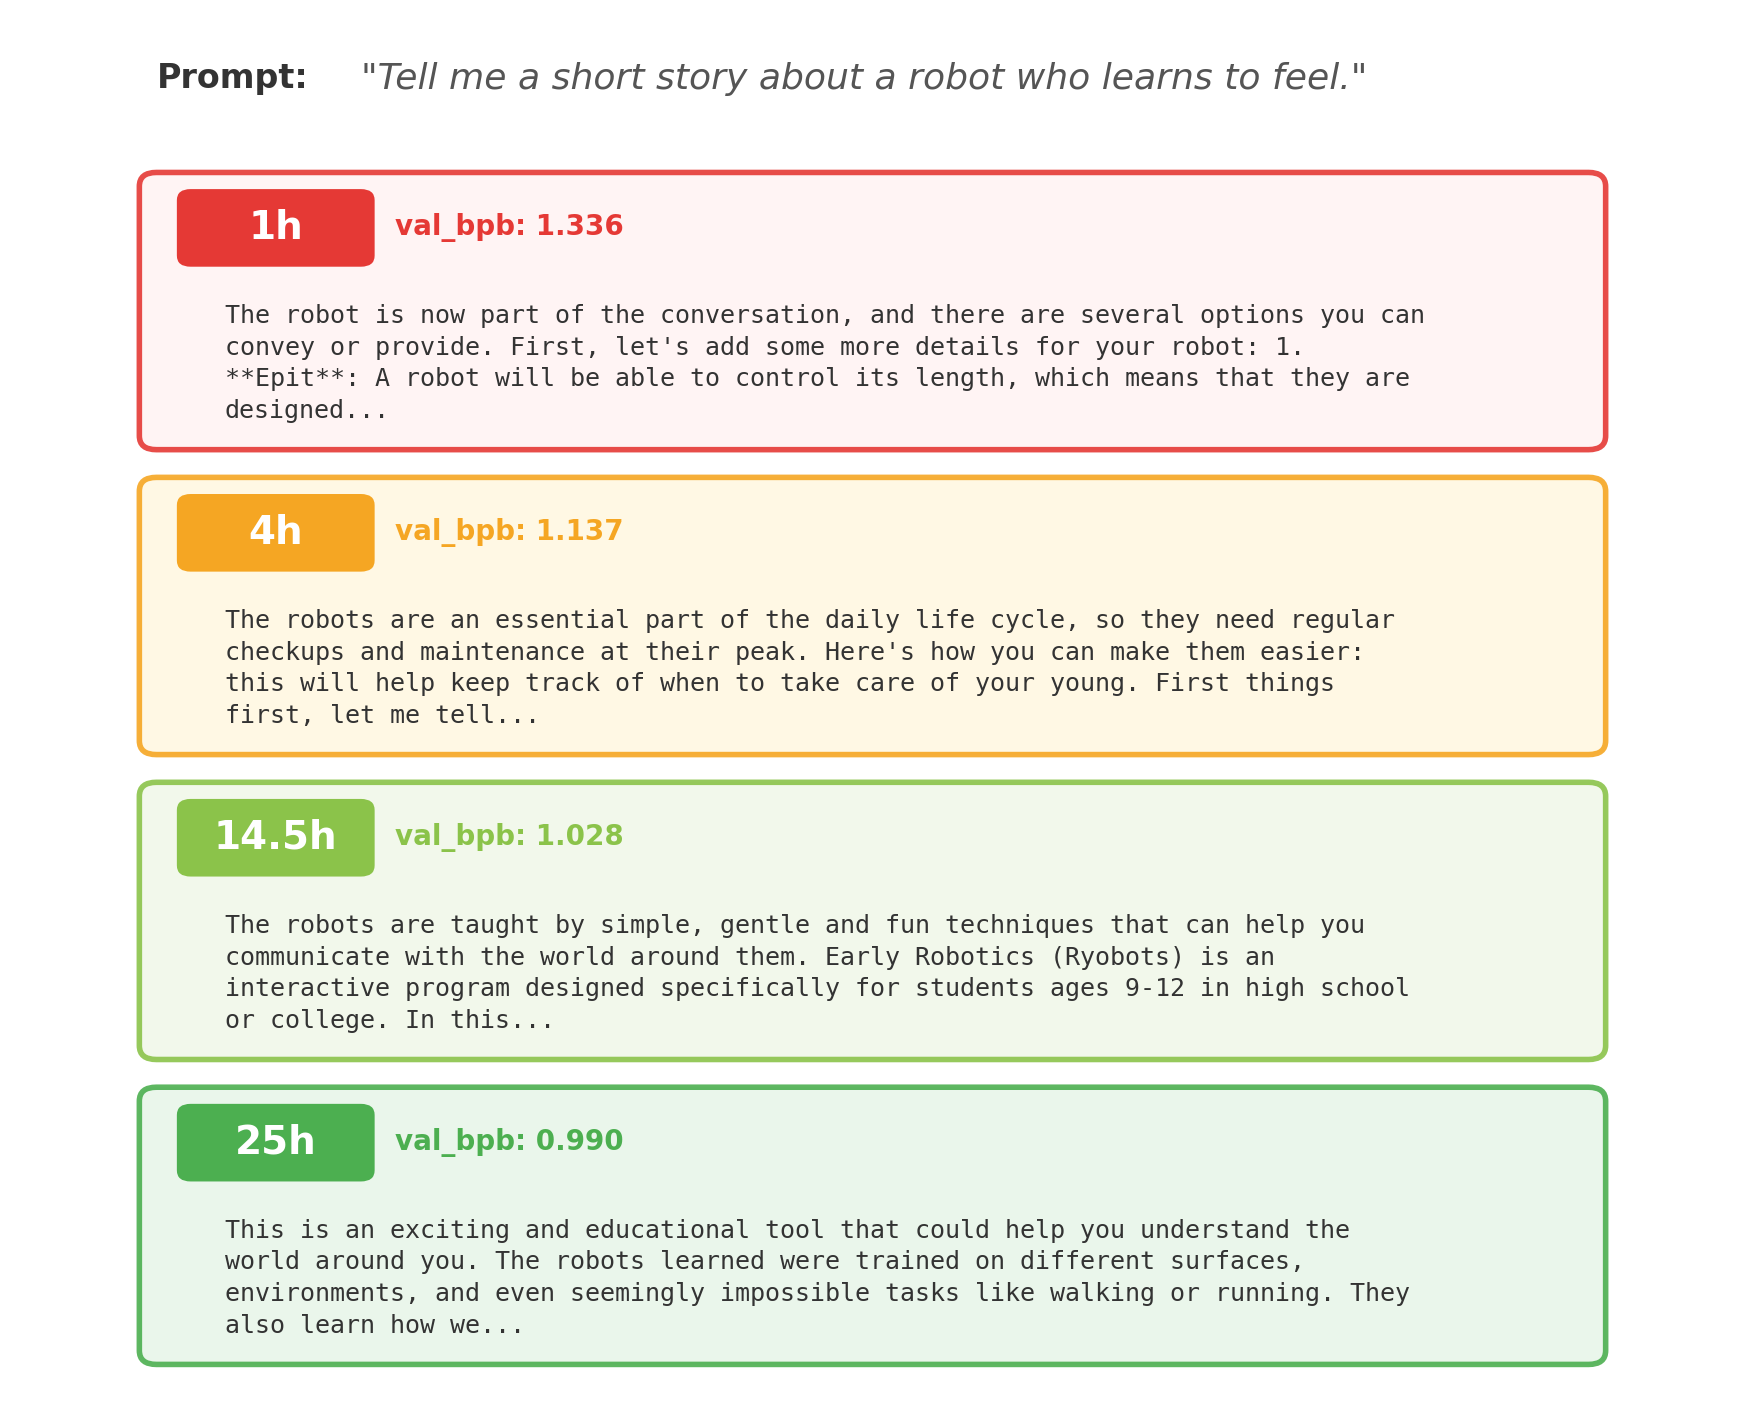
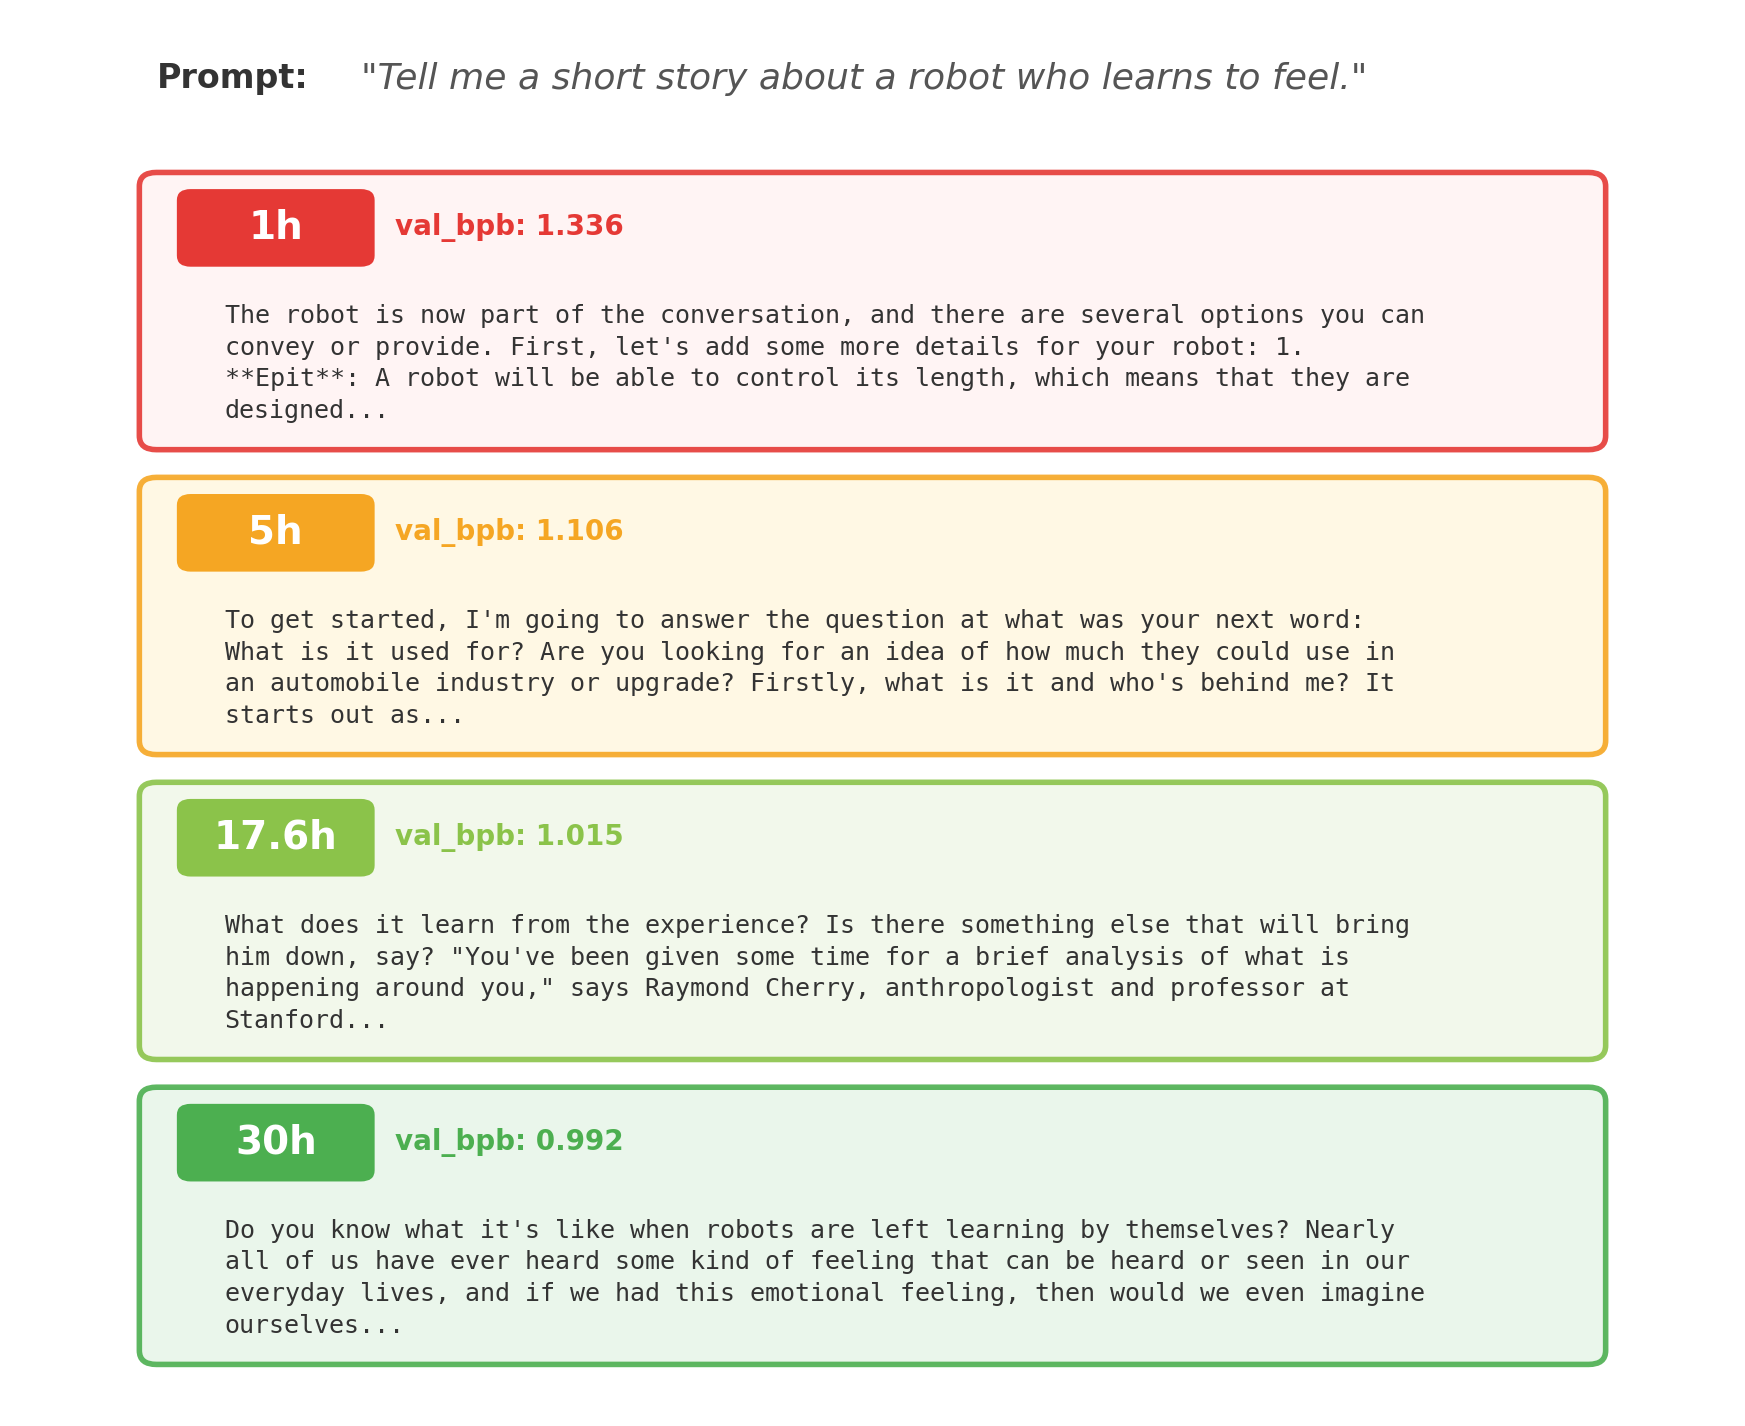
deep-train #12: 30.0h accumulated, val_bpb 0.992
val_bpb plateau (0.992 vs 0.990 at 25h). Chat quality comparable
to 25h — no visible improvement. Math attempts LaTeX + Python code.
Model approaching capacity wall at 285M params.

diff --git a/blog.md b/blog.md
@@ -12,8 +12,8 @@ The explore loop runs at a small, fast depth (typically ~5M params, ~500 experim
 
 ### Experiment overview
 
-**Total experiments**: 269 · **Kept**: 42 · **Discarded**: 203 · **Crashes**: 0
-**Deep-train sessions**: 11 · **Accumulated pretraining**: 25.0h
+**Total experiments**: 271 · **Kept**: 42 · **Discarded**: 203 · **Crashes**: 0
+**Deep-train sessions**: 12 · **Accumulated pretraining**: 30.0h
 **Best explore val_bpb**: 1.282250
 
 **Top 5 highest-impact experiments**
@@ -399,5 +399,35 @@ val_bpb broke below 1.01 for the first time (1.006 vs 1.015, a 0.9% drop). The 2
 | Emerging reasoning | better | Sky uses causal language: "due to the fact that", "as a result of", "could cause a sudden shift in wavelength"; robot discusses cause-effect of learning on behavior; math defines numbered systems building on each other |
 
 val_bpb broke below 1.0 for the first time (0.990 vs 1.006, a 1.7% drop). The chat responses show the most significant quality jump in several entries. The sky answer is the best yet — it discusses sunlight being "reflected back into space", "shift in wavelength", and "visible light rays over shorter distances", which are all physics-adjacent concepts relevant to Rayleigh scattering. The robot answer discusses robots learning on "different surfaces, environments, and even seemingly impossible tasks" and connecting with humans — the most coherent and on-topic robot response to date. The math answer, while still wrong, stays consistently within an acoustics/resonance domain and builds numbered definitions that reference each other. The model is clearly developing stronger coherency and topical grounding as pretraining hours accumulate.
+
+---
+
+## #12 · 2026-03-24 11:00 · 30.0h accumulated pretraining
+
+**val_bpb**: 0.992017 · **model**: depth=16, 1024-dim · ~285M params · 30.0h pretraining
+
+**Last 5 improvements**: Same as #11 — no new explore keeps. 5h deep-train loop continuing per steering notes. val_bpb essentially flat from 25h (0.990→0.992), suggesting diminishing returns at this model capacity.
+
+**Benchmark responses**
+
+*Q: Explain why the sky is blue.*
+> We can see that it's a natural day, or even a dark night. The most common cause of this phenomenon are artificial lighting and other activities such as ambient light, which has been designed to create shadows. Differential calculation of the sky can occur because of natural conditions like sunlight exposure and other factors. 1. Sight dimming: This is a phenomenon whereby light rays travel through an object or surface, creating shadows that cast doubt on the surroundings. 2. Hue contrasting colors: When we categorize blue as artificial, it's essential to distinguish between different primary colors and their sources. We'll find out if each color is more or less in a particular shade of blue (e.g., red for sunlight), which can help us identify the depths where these blues are more intense. 3. Sound contrasting patterns: When we categorize certain objects, such as stars or planets, we need to distinguish between them as colors that are deep and darker than those found in other wavelengths of light.
+
+*Q: What is 2 + 2 and why?*
+> The answer to this question is "it depends on the relationship between two or more values of a given x-coefficient (x^2). For example, if X = {1/2}(y)=4.8kg then X + 5 = <3 kg. To help you understand the significance of this answer to begin with, let's first consider what "currency" is and why it holds for values between x^2 and 2 + - 1/2}. The purpose here is to define $x$ as a value that represents an average amount of time. To calculate $\left( {X^3: \frac{4kg}{0}$)##, we first consider the relation between X and Y.
+
+*Q: Tell me a short story about a robot who learns to feel.*
+> Do you know what it's like when robots are left learning by themselves? Nearly all of us have ever heard some kind of feeling that can be heard or seen in our everyday lives, and if we had this emotional feeling, then would we even imagine ourselves as humans? The world is a complex interplay between reality and technology. In this article we will explore what it's like when robots are left learning by themselves, how they learn to feel, their physical strength, their emotions, or whether it may be a challenge for us to appreciate them. So let's get started on this journey together! Did you know that we are learning by ourselves? This sensation can be seen when...
+
+**Quality assessment vs previous entry**
+
+| Dimension | Change | Evidence |
+|---|---|---|
+| Grammar | same | Both produce fluent, well-structured prose |
+| Coherency | same | Sky maintains a light/color science theme; robot stays on learning/feeling; math stays in algebra — similar to 25h |
+| Topic follow-through | same | Sky discusses "light rays", "primary colors", "wavelengths"; robot discusses "learning to feel", "emotions" — comparable to 25h |
+| Emerging reasoning | same | Numbered categorization; math attempts LaTeX notation and Python code; no new reasoning patterns |
+
+val_bpb is essentially flat (0.992 vs 0.990 — within noise). The chat responses are comparable to the 25h model with no notable improvements. The sky answer uses "light rays", "primary colors", "wavelengths" — similar vocabulary to 25h. The robot answer opens with an engaging rhetorical question but doesn't advance beyond the 25h quality level. The math answer attempts both LaTeX and Python code formatting, which is new, but the content is still nonsensical. This confirms the model is approaching diminishing returns at 285M params — additional pretraining hours produce measurable but not visible improvements. The next quality leap likely requires either a larger model or improved SFT.
 
 ---

diff --git a/README.md b/README.md
@@ -41,6 +41,7 @@ The model is evaluated after each deep-train using 3 fixed benchmark prompts. He
 | 17.6h | 1.015 | Complex, natural prose | Maintains invented narratives ("Chirping Cushion", "Raymond Cherry") | Sky explains "why stars are blue"; robot discusses robotics research | Temporal framing, expert attribution, "in contrast" logic |
 | 20h | 1.006 | Fluent with bold/numbered lists | FAQ-style lists replace narratives | Sky uses "wavelengths", "absorption", "RGB", "primary colors" | Systematic comparison format; term definitions with categories |
 | 25h | 0.990 | Fluent, complex prose | Consistent astronomy/physics narrative | Sky discusses "sunlight reflected", "wavelength shift", "visible light" | Causal language: "due to", "as a result of", "could cause" |
+| 30h | 0.992 | Fluent prose | Similar to 25h — plateau | Sky: "light rays", "primary colors", "wavelengths"; math attempts LaTeX+Python | No new patterns; model at capacity wall |
 
 **Notable milestones:**
 - **2h**: First time a response touches the actual topic (sky → sun/atmosphere)
@@ -52,6 +53,7 @@ The model is evaluated after each deep-train using 3 fixed benchmark prompts. He
 - **17.6h**: Model invents and maintains fictional narratives; constructs believable interview format with named experts; repetition loops resolved
 - **20h**: val_bpb breaks below 1.01; physics vocabulary ("wavelengths", "absorption", "RGB") appears in sky answer; response style shifts from narrative to information/listicle format
 - **25h**: val_bpb breaks below 1.0; sky discusses sunlight reflection and wavelength shifts — closest to correct physics yet; causal reasoning emerges ("due to", "as a result of")
+- **30h**: val_bpb plateau (0.992 vs 0.990); math attempts LaTeX + Python code; quality comparable to 25h — model approaching capacity wall at 285M params
 
 ### Benchmark responses over time
 
